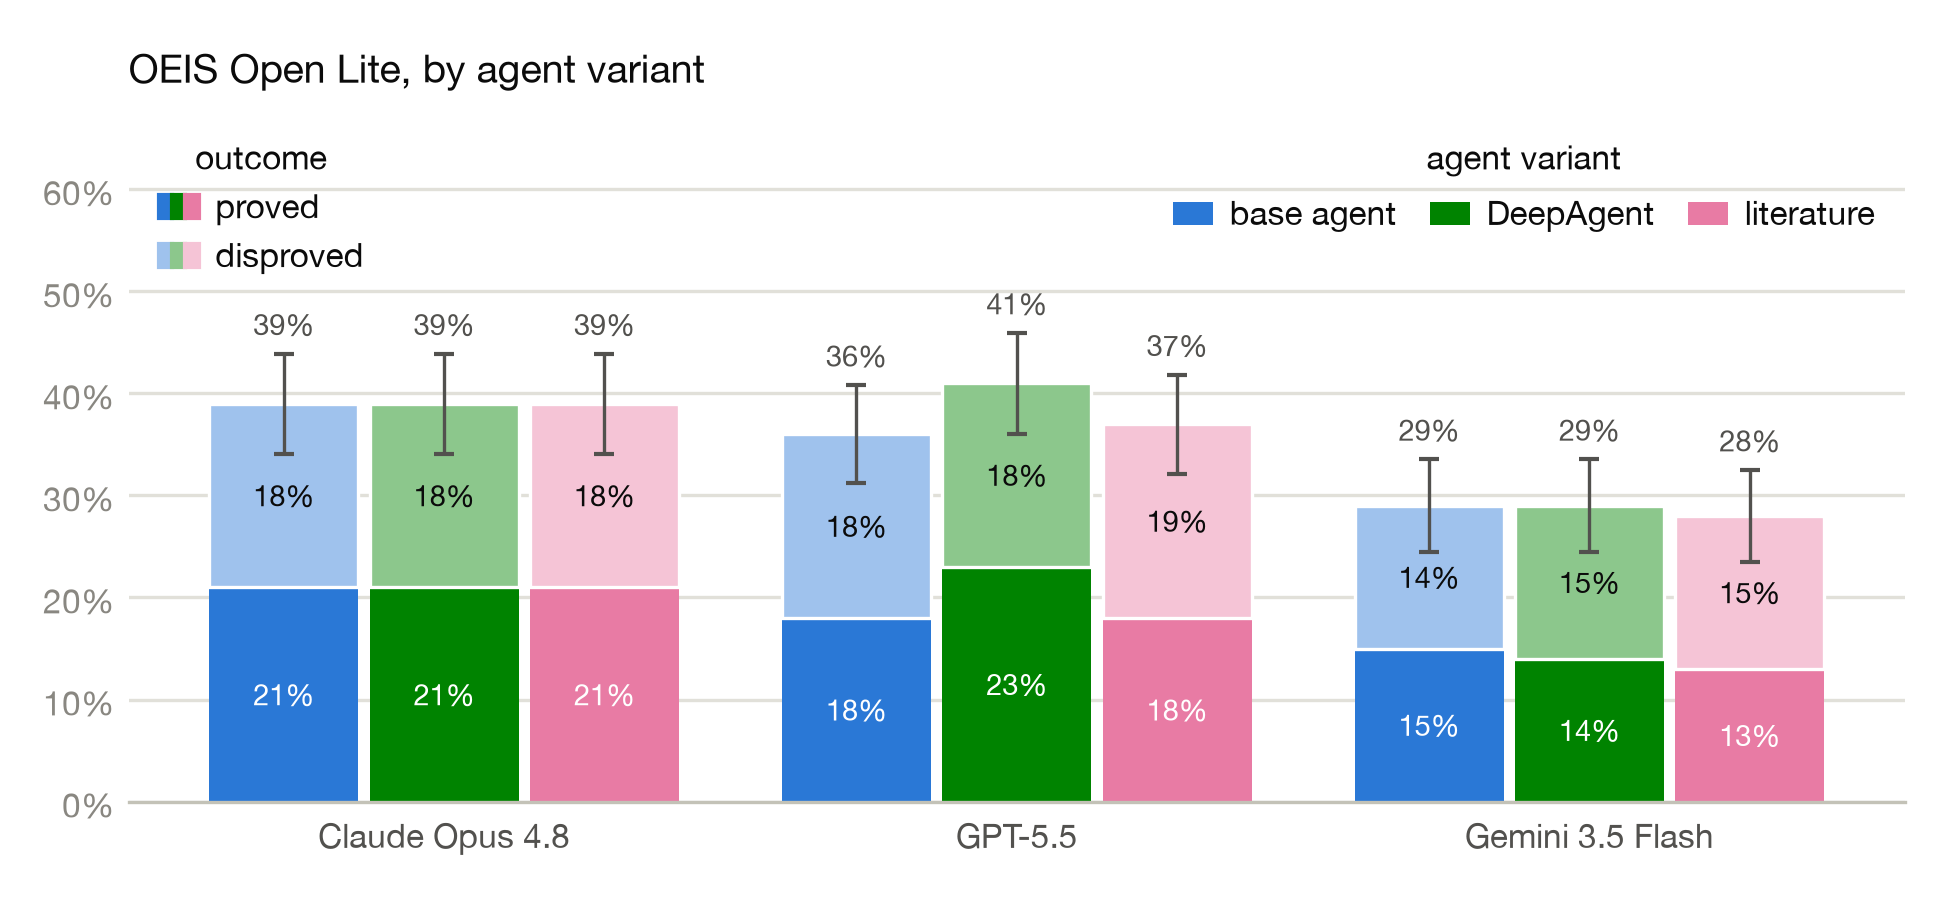
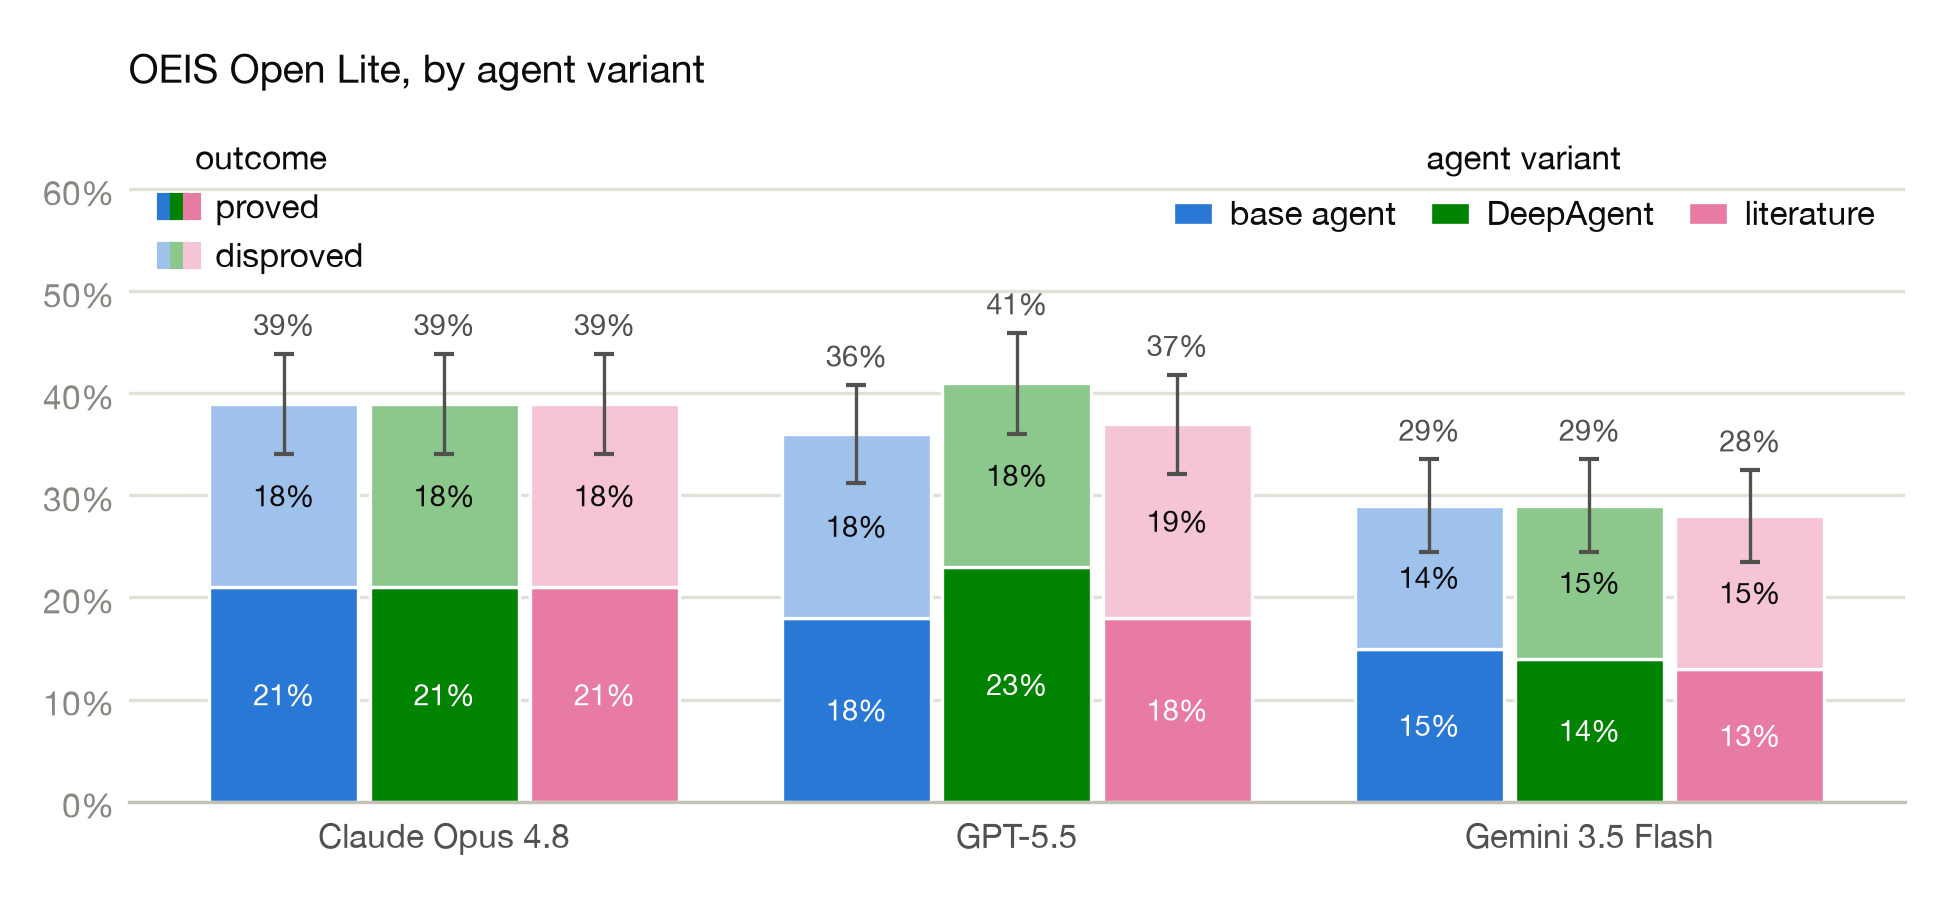
Same edge stroke on both bar segments so widths match

diff --git a/plots/make_plots.py b/plots/make_plots.py
@@ -106,8 +106,10 @@ def tint(hex_color, frac=0.45):
     return tuple(x + frac * (y - x) for x, y in zip(a, b))
 
 def stacked_bar(ax, x, proved, disproved, color, width, label=None):
-    """One solve-rate bar: solid proved segment, pale disproved on top."""
-    ax.bar(x, proved, width=width, color=color, label=label)
+    """One solve-rate bar: solid proved segment, pale disproved on top.
+    Identical edge stroke on both segments so they render the same width."""
+    ax.bar(x, proved, width=width, color=color, label=label,
+           edgecolor=SURFACE, linewidth=0.8)
     ax.bar(x, disproved, width=width, bottom=proved, color=tint(color),
            edgecolor=SURFACE, linewidth=0.8)
 
